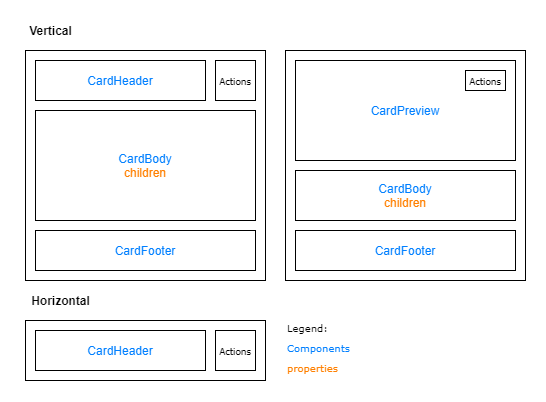
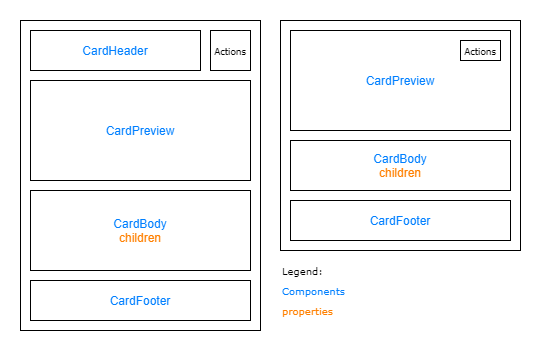
Add behaviors, a11y and code examples

diff --git a/packages/react-card/Spec.md b/packages/react-card/Spec.md
@@ -122,7 +122,7 @@ Card goes for a more structural and generic approach to a card component and is 
 
 #### Anatomy
 
-![visual anatomy of the Card component](./assets/CardHeader.png)
+![visual anatomy of the CardHeader component](./assets/CardHeader.png)
 
 #### API
 
@@ -138,12 +138,15 @@ This component has no custom props and only ensures the proper positioning of co
 
 ### CardPreview
 
+![visual anatomy of the CardPreview component](./assets/CardPreview.png)
+
 #### API
 
 | Property | Values | Default   | Purpose                                                  |
 | -------- | ------ | --------- | -------------------------------------------------------- |
 | src      | string | undefined | Source of the media to be displayed on the `img` element |
 | alt      | string | undefined | Alternative text to describe the media presented         |
+| logo     | _slot_ | undefined | A logo/file type to add over the image preview           |
 
 ### CardFooter
 
@@ -207,8 +210,194 @@ This component has no custom props and only ensures the proper positioning of co
 
 ## Behaviours
 
-...
+### Mouse
 
-## Accesibility
+#### Selectable cards
 
-...
+![Visual interaction of selectable cards using the mouse](./assets/selectable-interaction-mouse.png)
+
+Clicking the card surface can toggle the checkbox state to `selected`. Note that checkboxes are composed together as an additional component and are not provided by default.
+
+1. Rest Default state is `unselected`
+2. Hover cursor style changes to `pointer`, background color and elevation follows interactive styling to show visual feedback
+3. Pressed cursor does not change background color and elevation follows interactive styling to show visual feedback for pressed state.
+4. MouseUp Card and Checkbox are both in selected state, clicking again toggles components to unselected state
+
+### Non-interactive cards
+
+![Visual interaction of non-interactive cards using the mouse](./assets/non-interactive-interaction-mouse.png)
+
+Cards that have multiple actionable child components within them cannot be clickable. We preserve the use of `EnterKey` for moving focus to actionable controls inside the card, therefore the card surface cannot be used to set the state of the card but is reliant on the checkbox or similar inputs to set the card state.
+
+Mouse interaction
+
+- OnMouseEnter / Hover cursor style stays at default, rest state stays persistent no visual feedback is applied to the card surface
+- Hover & onClick (Checkbox) Hover state & pressed state applies to checkbox component
+- MouseUp (Checkbox) Card and Checkbox are both in selected state, clicking again toggles components to unselected state
+
+### Context menu
+
+![Visual interaction of the context menu on cards using the mouse](./assets/context-interaction-mouse.png)
+
+A context menu can be triggered by right clicking the surface or through an action in the card.
+
+1.Rest
+
+2. RightClick [LongPress]
+   Right click anywhere on card surface invokes content menu
+3. Show
+   Context menu appears close to cursor location on card
+4. Hide/Dismiss
+   Clicking or tapping anywhere outside of menu to dismiss
+
+#### Disabled
+
+![Visual interaction of disabled cards using the mouse](./assets/disabled.png)
+
+1 Unselected disabled
+
+1. Label: Selectable Card
+2. Role: Group
+3. State: Disabled, unselected
+
+2 Selected disabled
+
+1. Label: Selectable Card
+2. Role: Group
+3. State: Disabled, selected
+
+### Keyboard
+
+#### Selectable cards
+
+![Visual interaction of selectable cards using the keyboard](./assets/selectable-interaction-keyboard.png)
+
+1. Rest Default state is ‘unselected’
+2. Focus Focus rectangle is shown on card
+3. Focus Use spacebar to toggle state (selected/unselected)
+
+### Non-interactive cards
+
+![Visual interaction of non-interactive cards using the keyboard](./assets/non-interactive-interaction-keyboard.png)
+
+Keyboard interaction
+
+1. Focus Initial focus is set on card, to access items within the card use EnterKey or Spacebar
+2. Focus-Inside Focus moves to first actionable item in the card. Use ArrowKeys or TabKey to move focus to child elements within the card. To exit card use EscKey, to move focus back to card [parent]
+3. Checkbox-Focus Depending on your tab order of items within the card, the number of keystrokes will vary. Once focus is set on the checkbox by default it will be set to unselected
+4. SpaceBar or EnterKey will toggle both Card and Checkbox to selected state. Keying again will toggle to unselected
+
+### Context menu
+
+![Visual interaction of the context menu on cards using the keyboard](./assets/context-interaction-keyboard.png)
+
+1. Rest
+2. OnFocus - Focus rect. is set on card. Use shiftKey and press F10 to invoke context menu
+
+   `aria-haspopup="menu"`
+
+   `aria-expanded="false"`
+
+3. ShowSet focus on context menu
+
+   `aria-expanded="true"`
+
+4. Hide/Dismiss - Use EscKey to hide/dismiss
+
+   `aria-expanded="false"`
+
+## Accessibility
+
+> ⚠ Note: All other accessibility information, not covered in this section, is provided throughout the spec.
+
+Each card is of `role="group"`.
+
+### Narrator guidance
+
+#### Selectable cards
+
+![Visual interaction of keyboard usage with selectable cards](./assets/selectable-narrator.png)
+
+1 Focus + unselected
+
+1. Label: Select this card
+2. Role: Group
+3. State: Focus + unselected
+4. Helper text: Use enterKey or spacebar to toggle state to selected
+
+2 Focus + selected
+
+1. Label: Unselect this card
+2. Role: Group
+3. State: Focus + selected
+4. Helper text: Use enterKey or spacebar to toggle state to unselected
+
+#### Non-interactive cards
+
+![Visual interaction of keyboard usage with non-interactive cards](./assets/non-interactive-narrator.png)
+
+1 Focus + unselected
+
+1. Label: App Card
+2. Role: Group
+3. State: Focus
+4. Helper text: Use enterKey to access controls within the card
+
+2 Focus (inside)
+
+1. Label: Open App
+2. Role: Button
+3. State: Focus
+4. Helper text: Use enterkey to open app in new window
+
+3 Focus Checkbox unselected
+
+1. Label: Share App
+2. Role: Button
+3. State: Focus
+4. Helper text: Use enter key to open share dialog
+
+4 Focus Checkbox selected
+
+1. Label: Select card
+2. Role: Checkbox
+3. State: Unselected
+4. Helper text: Use spacebar or enter key to select this item
+
+#### Disabled
+
+![Two disabled cards. One is unselected and one is selected](./assets/disabled-narrator.png)
+
+1 Unselected disabled
+
+1. Label: Selectable Card
+2. Role: Group
+3. State: Disabled, unselected
+
+2 Selected disabled
+
+1. Label: Selectable Card
+2. Role: Group
+3. State: Disabled, selected
+
+#### Context menu
+
+![Context menu opening and closing](./assets/context-narrator.png)
+
+RightClick / ShiftKey + F10
+
+1. OnFocus
+
+   `aria-haspopup="true"`
+
+   `aria-expanded="false"`
+
+   `aria-controls="menu"`
+
+2. Opening
+
+   `aria-expanded="true"` - Indicates popup menu is open.
+
+3. Closing
+
+   `aria-expanded="false"` - Indicates popup menu is closed
